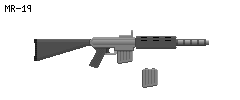
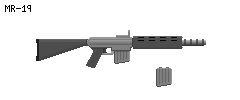
e

diff --git a/Technology/PlasmaticWeaponry.md b/Technology/PlasmaticWeaponry.md
@@ -39,7 +39,7 @@ It is a law in many nations that unsupervised weapons production is a severe cri
 - **Manufacturer:** KAG Armoury
 - **Core:** Mrokek
 - **Rate of Fire:** 660 rpm (auto)
-- **Length:** 875 mm (with buttstock), 595 mm (without buttstock)
+- **Length:** 850 mm (with buttstock), 595 mm (without buttstock)
 - **Weight:** ~3.6 kg (unloaded), ~0.35 kg (loaded)
 - **Projectile:** Contained plasma bolt (blue), 5 grams heated to 2000 kelvins and held with 3 kilojoules of energy
 - **Battery capacity:** 30 blasts before weakening, ~40 blasts before empty
@@ -48,11 +48,11 @@ It is a law in many nations that unsupervised weapons production is a severe cri
 
 The MR-19 is a plasmatic rifle manufactured by KAG Armoury and the current service rifle of the Kagalarian army. It is valued for its effectiveness, reliability, and high quality-to-cost ratio.
 
-A standard MR-19 is decorated with a 26-centimetre polymer buttstock with a thin metal core, a polymer grip angled at 20 degrees, a reflex sight, an insulating rubber handguard with air vents, and 5 heat sinks around the barrel. Military variants have a sling connected from the end of the stock to the end of the handguard.
+A standard MR-19 is decorated with a 255 mm polymer buttstock with a thin metal core, a polymer grip angled at 20 degrees, a reflex sight, an insulating rubber handguard with air vents, and 7 heat sinks around the barrel. Military variants have a sling connected from the end of the stock to the end of the handguard.
 
 MR-19 batteries are 10 cm x 8 cm, which is shorter and wider than the grip. It can provide around 40 shots before completely running out of power.
 
-When loaded, an MR-19 weighs about 3.95 kilograms and is slightly front-heavy with a center of mass just above the battery slot.
+When loaded, an MR-19 weighs about 3.95 kg and is slightly front-heavy with a center of mass just above the battery slot.
 </details>
 <details>
 <summary><b>O-9 (Olgor 9)</b></summary>
